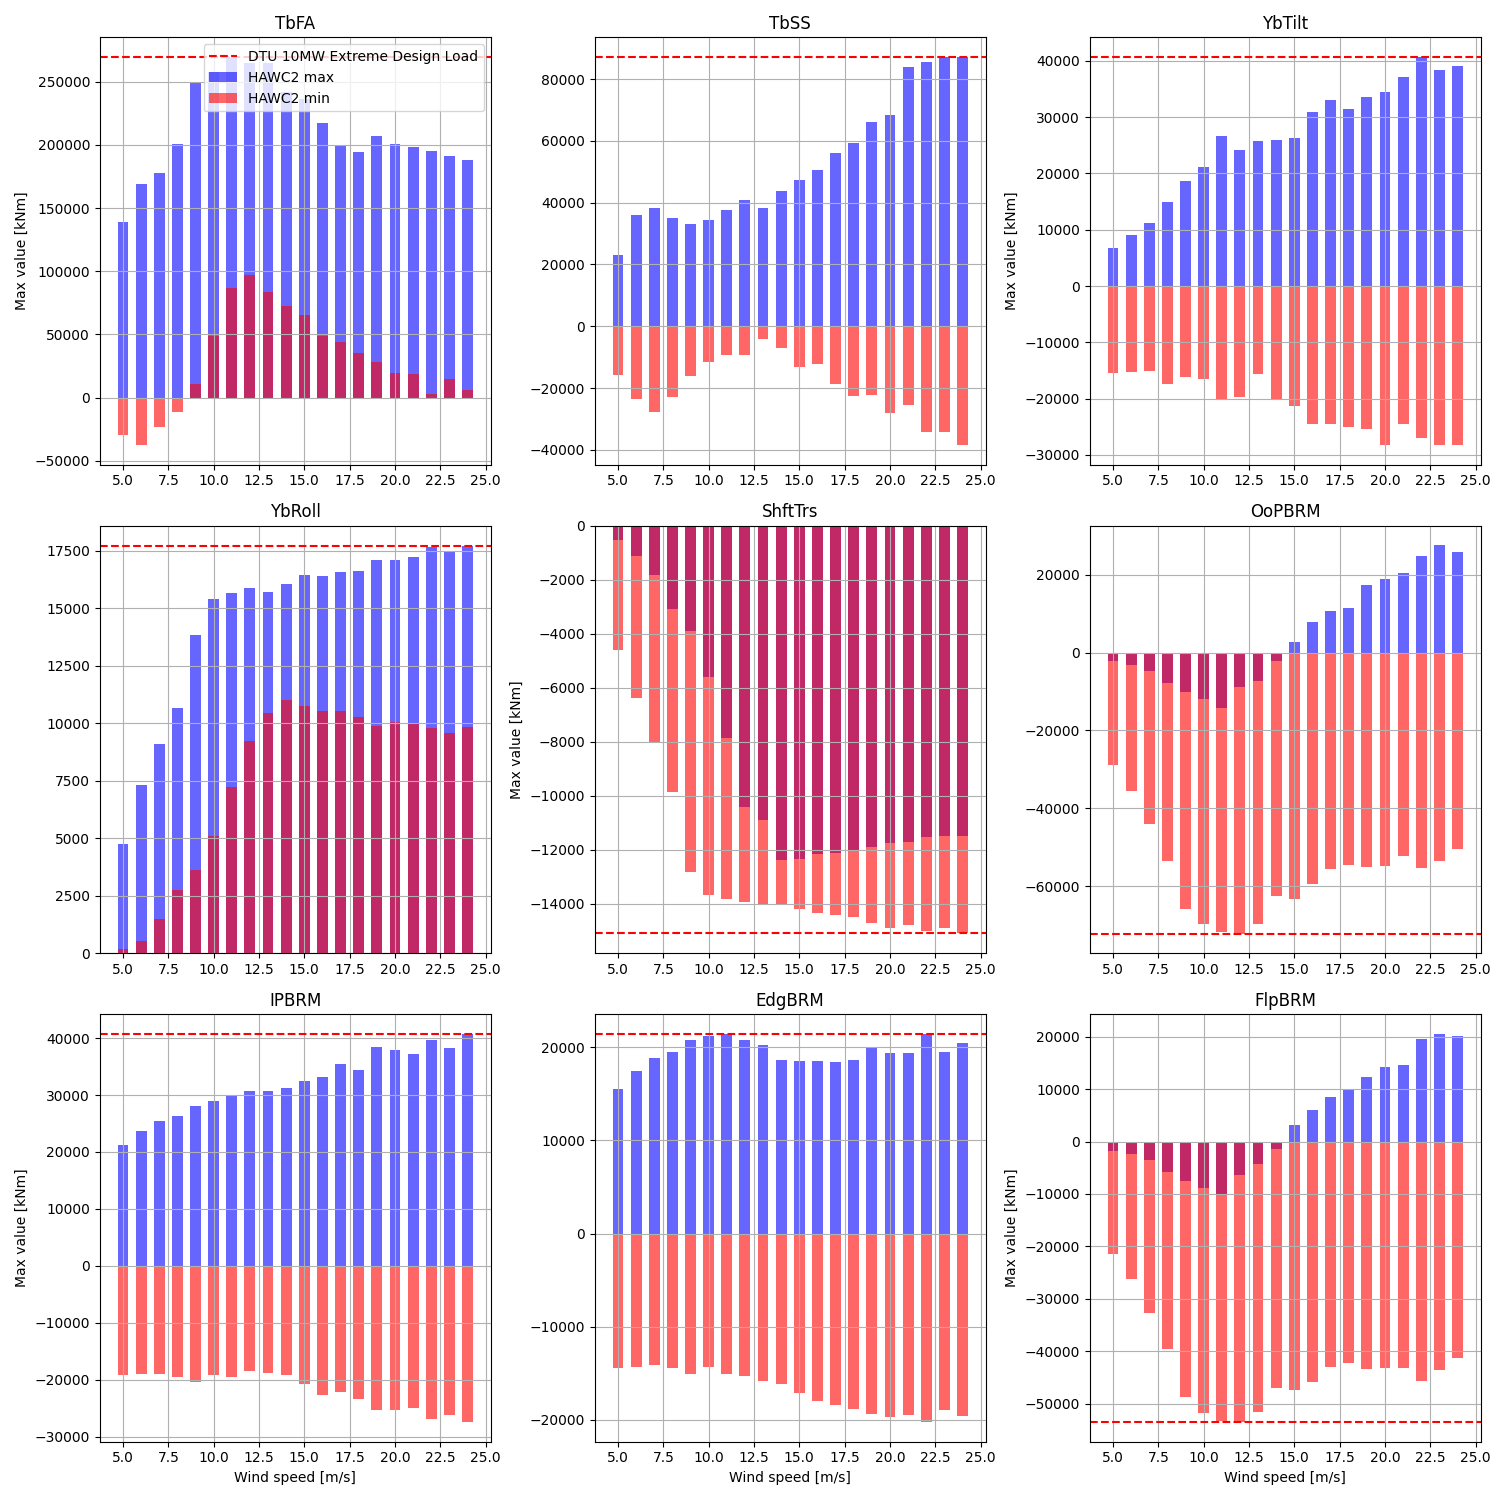
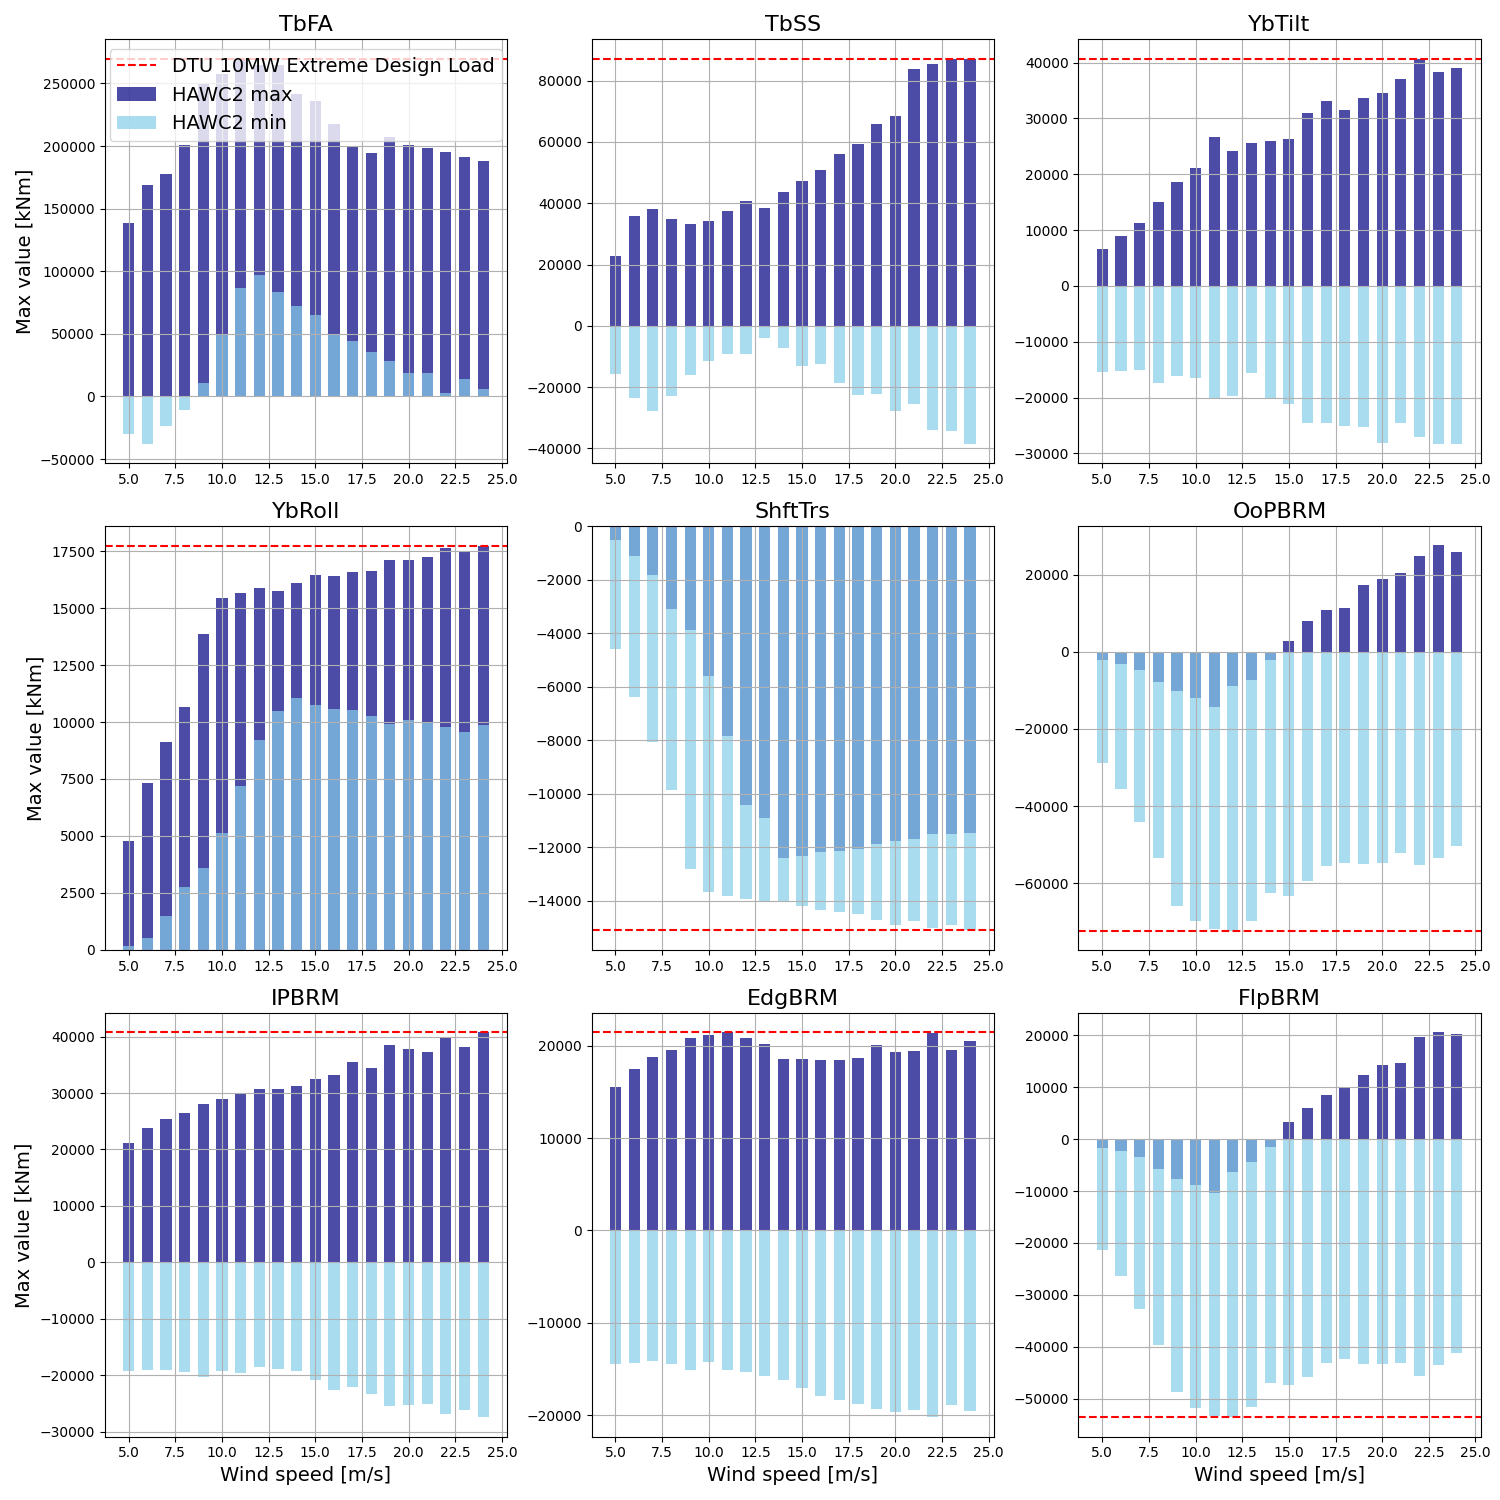
Tower clearance

diff --git a/A4 Design Loads and AEP/Assignment/Get_design_loads.py b/A4 Design Loads and AEP/Assignment/Get_design_loads.py
@@ -66,7 +66,8 @@ CHAN_DESCS = {'TbFA': 'momentmx mbdy:tower nodenr:   1',
               'OoPHub': 'momentmx mbdy:hub1 nodenr:   1 coo: hub1',
               'FlpBRM': 'momentmx mbdy:blade1 nodenr:   1 coo: blade1  blade1 root flped',
               'IPHub': 'momentmy mbdy:hub1 nodenr:   1 coo: hub1',
-              'EdgBRM': 'momentmy mbdy:blade1 nodenr:   1 coo: blade1  blade1 root flped'
+              'EdgBRM': 'momentmy mbdy:blade1 nodenr:   1 coo: blade1  blade1 root flped',
+              'TowerClearance': 'dll :  5 inpvec :   1  min. distance bladetips tower'
               }
 
 # Weibull bin probabilities
@@ -145,17 +146,17 @@ for iplot, chan_id in enumerate(chan_ids):
 
     # Plot the max values max_HAWC2val_per_wind vs wind speed (unique_wind_speeds) as bars
     ax = axs[iplot]
-    ax.bar(unique_wind_speeds, max_charval_per_wind, width=0.6, color='b', alpha=0.6, label='HAWC2 max')
-    ax.bar(unique_wind_speeds, min_charval_per_wind, width=0.6, color='r', alpha=0.6, label='HAWC2 min')
+    ax.bar(unique_wind_speeds, max_charval_per_wind, width=0.6, color='navy', alpha=0.7, label='HAWC2 max')
+    ax.bar(unique_wind_speeds, min_charval_per_wind, width=0.6, color='skyblue', alpha=0.7, label='HAWC2 min')
     ax.axhline(extreme_design_loads[chan_id], color='r', linestyle='--', label='DTU 10MW Extreme Design Load')
-    ax.set_title(chan_id)
+    ax.set_title(chan_id, fontsize=16)
     if iplot >= 6:
-        ax.set_xlabel('Wind speed [m/s]')
-    if iplot % 2 == 0:
-        ax.set_ylabel('Max value [kNm]')
+        ax.set_xlabel('Wind speed [m/s]', fontsize=14)
+    if iplot % 3 == 0:
+        ax.set_ylabel('Max value [kNm]', fontsize=14)
     ax.grid()
     if iplot == 0:
-        ax.legend()
+        ax.legend(fontsize=14)
 
     ## Fatigue Design Load
     # Calculate combined 10-min DEL and lifetime fatigue load
@@ -169,6 +170,25 @@ for iplot, chan_id in enumerate(chan_ids):
     lifetime_fatigue_load = calculate_lifetime_fatigue(DELs_10min, n_i, Wohler_exponent)
 
     print(f"{chan_id}: Lifetime Fatigue Load = {lifetime_fatigue_load:.8f} kNm")
+
+## Calculate the minimum tower clearance
+chan_id = 'TowerClearance'
+chan_df = df.filter_channel(chan_id, CHAN_DESCS)
+
+h2_wind = np.array(chan_df['wsp'])
+TowerClearance_min = np.array(chan_df['min'])
+
+i_h2 = np.argsort(h2_wind)
+h2_wind_sorted = h2_wind[i_h2]
+TowerClearance_min_sorted = TowerClearance_min[i_h2]
+print(TowerClearance_min_sorted)
+
+unique_wind_speeds = np.unique(h2_wind_sorted)
+min_TowerClearance_per_wind = [np.min(TowerClearance_min_sorted[h2_wind_sorted == wsp]) for wsp in unique_wind_speeds]
+
+min_TowerClearance = np.min(min_TowerClearance_per_wind)
+
+print(f'{chan_id}: Min tower clearance = {min_TowerClearance:.2f} m')
 
 fig.tight_layout()
 plt.savefig(f'./A4 Design Loads and AEP/Assignment/Figures/{WTG} Ultimate design_loads.png')

diff --git a/A4 Design Loads and AEP/Assignment/Test_files.py b/A4 Design Loads and AEP/Assignment/Test_files.py
@@ -1,5 +1,7 @@
 import numpy as np
 from scipy.stats import weibull_min
+import h5py
+
 
 def SafetyFactorsTest():
 # Calculate and print partial safety factors for each load channel
@@ -26,6 +28,7 @@ def SafetyFactorsTest():
 
 
 def ProbabilityBinsTest(c, k):
+    U_ave = 10
     bin_probabilities_verification = [0.06442809, 0.0709227, 0.07472189, 0.07591763, 0.0747455, 0.07155162,
                                       0.06675382, 0.06080169, 0.05413969, 0.04717648, 0.04026251, 0.03367663,
                                       0.02762128, 0.02222493, 0.01755019, 0.01360521, 0.01035688, 0.00774379,
@@ -33,6 +36,9 @@ def ProbabilityBinsTest(c, k):
     # Define bin edges (as given)
     bin_edges = np.array([4.5, 5.5, 6.5, 7.5, 8.5, 9.5, 10.5, 11.5, 12.5, 13.5, 
                       14.5, 15.5, 16.5, 17.5, 18.5, 19.5, 20.5, 21.5, 22.5, 23.5, 24.5])
+
+    bins = bin_edges + 0.5
+    print("Bins:", bins)
     
     bin_probabilities = np.zeros(len(bin_edges) - 1)
 
@@ -40,9 +46,13 @@ def ProbabilityBinsTest(c, k):
         # Probability of being in the current bin
         bin_probabilities[i] = weibull_min.cdf(bin_edges[i + 1], k, scale=c) - weibull_min.cdf(bin_edges[i], k, scale=c)
 
+    bin_CDF_IEC = 1 - np.exp(-np.pi * (bin_edges / (2 * U_ave)) ** 2 )
+    bin_probabilities_IEC = np.diff(bin_CDF_IEC)
+
     # Verifiy the results with the given bin probabilities
     assert np.allclose(bin_probabilities, bin_probabilities_verification, rtol=1e-5), "Bin probabilities do not match the verification values"
     print("Bin probabilities:", bin_probabilities)
+    print('Bin probabilities IEC:', bin_probabilities_IEC)
 
     return bin_probabilities
 
@@ -101,13 +111,37 @@ U_std = 2
 c = 2/np.sqrt(np.pi) * U_ave
 k = 2
 
-SafetyFactorsTest()
+# SafetyFactorsTest()
 
 bin_probabilities = ProbabilityBinsTest(c, k)
 
-CombinedDelTest(bin_probabilities[0])
+# CombinedDelTest(bin_probabilities[0])
 
-LifetimeFatigueLoad(bin_probabilities)
+# LifetimeFatigueLoad(bin_probabilities)
+
+
+
+# Specify the path to your HDF5 file
+file_path = '.\A4 Design Loads and AEP\Assignment\dtu_10mw_turb_stats.hdf5'
+search_value = '5.946875487657857'
+found_values = []
+
+with h5py.File(file_path, 'r') as hdf_file:
+    # Function to recursively search through the file for the target value
+    def recursive_search(group):
+        for key in group.keys():
+            item = group[key]
+            if isinstance(item, h5py.Dataset):
+                # Check if the dataset contains the search value
+                if search_value in str(item[:]):
+                    found_values.append((key, item[:]))
+            elif isinstance(item, h5py.Group):
+                recursive_search(item)
+
+    # Start recursive search from the root
+    recursive_search(hdf_file)
+
+print("Found values:", found_values)
 
 
 """
